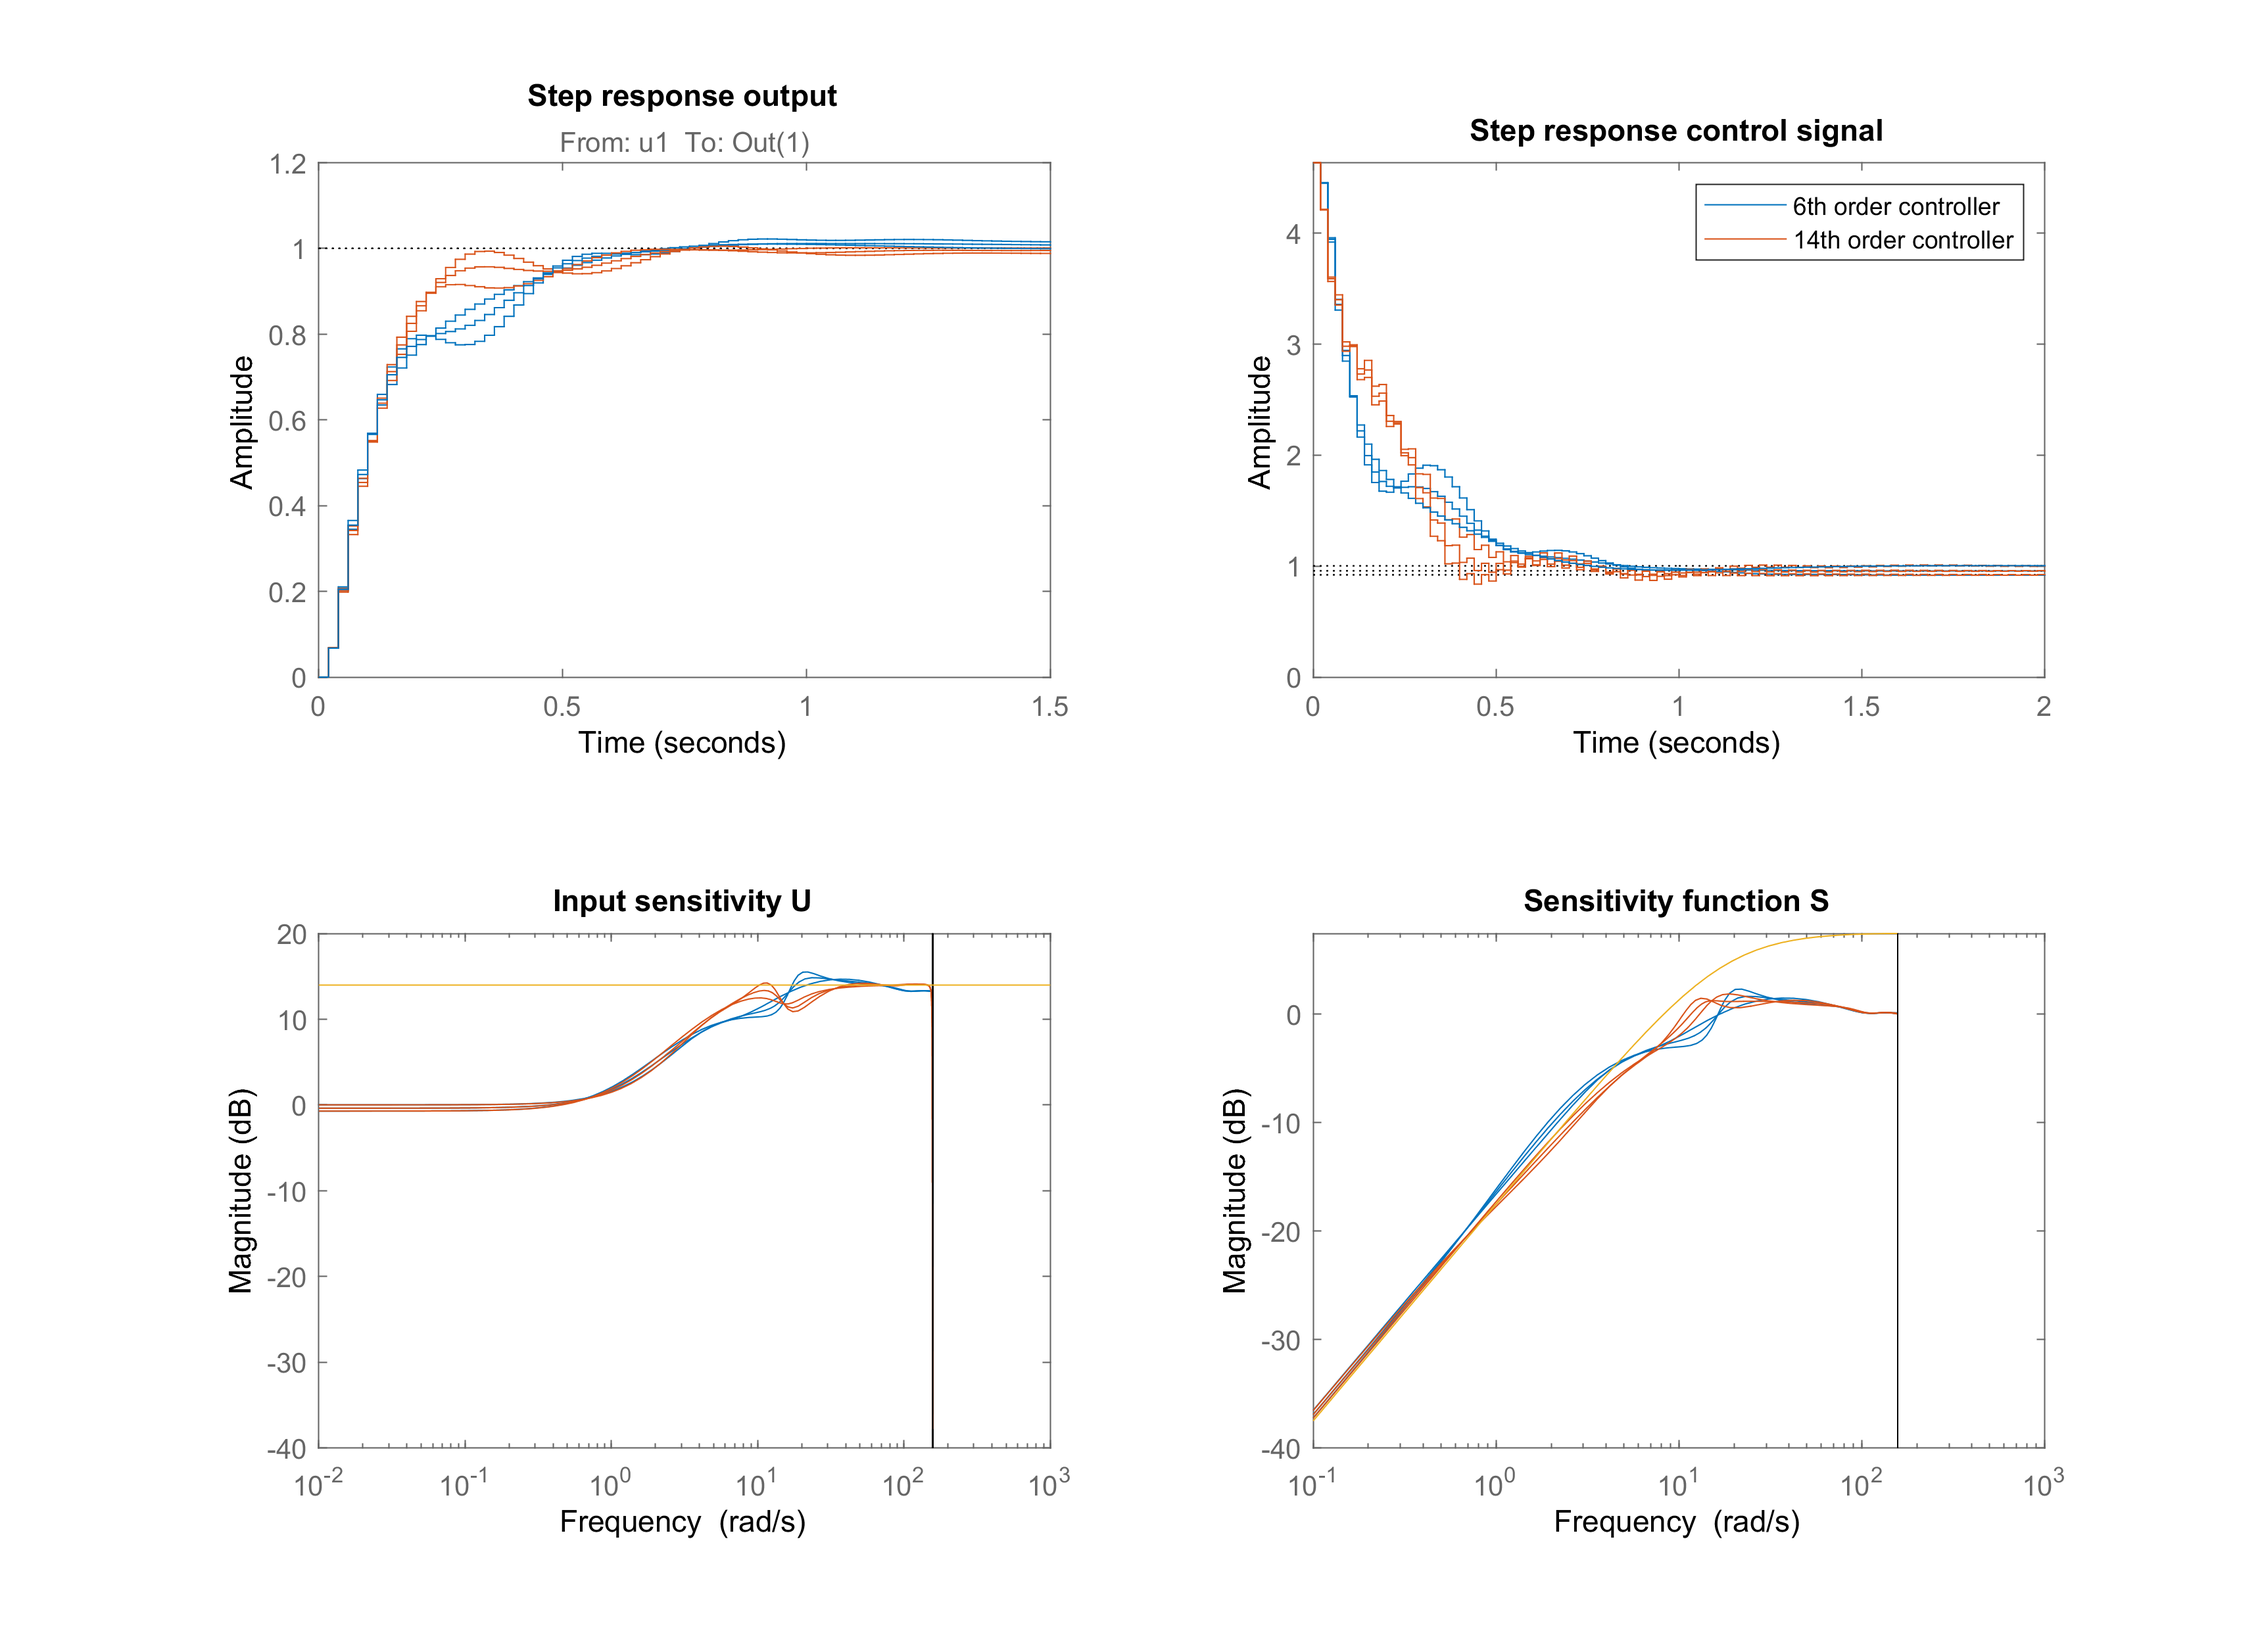
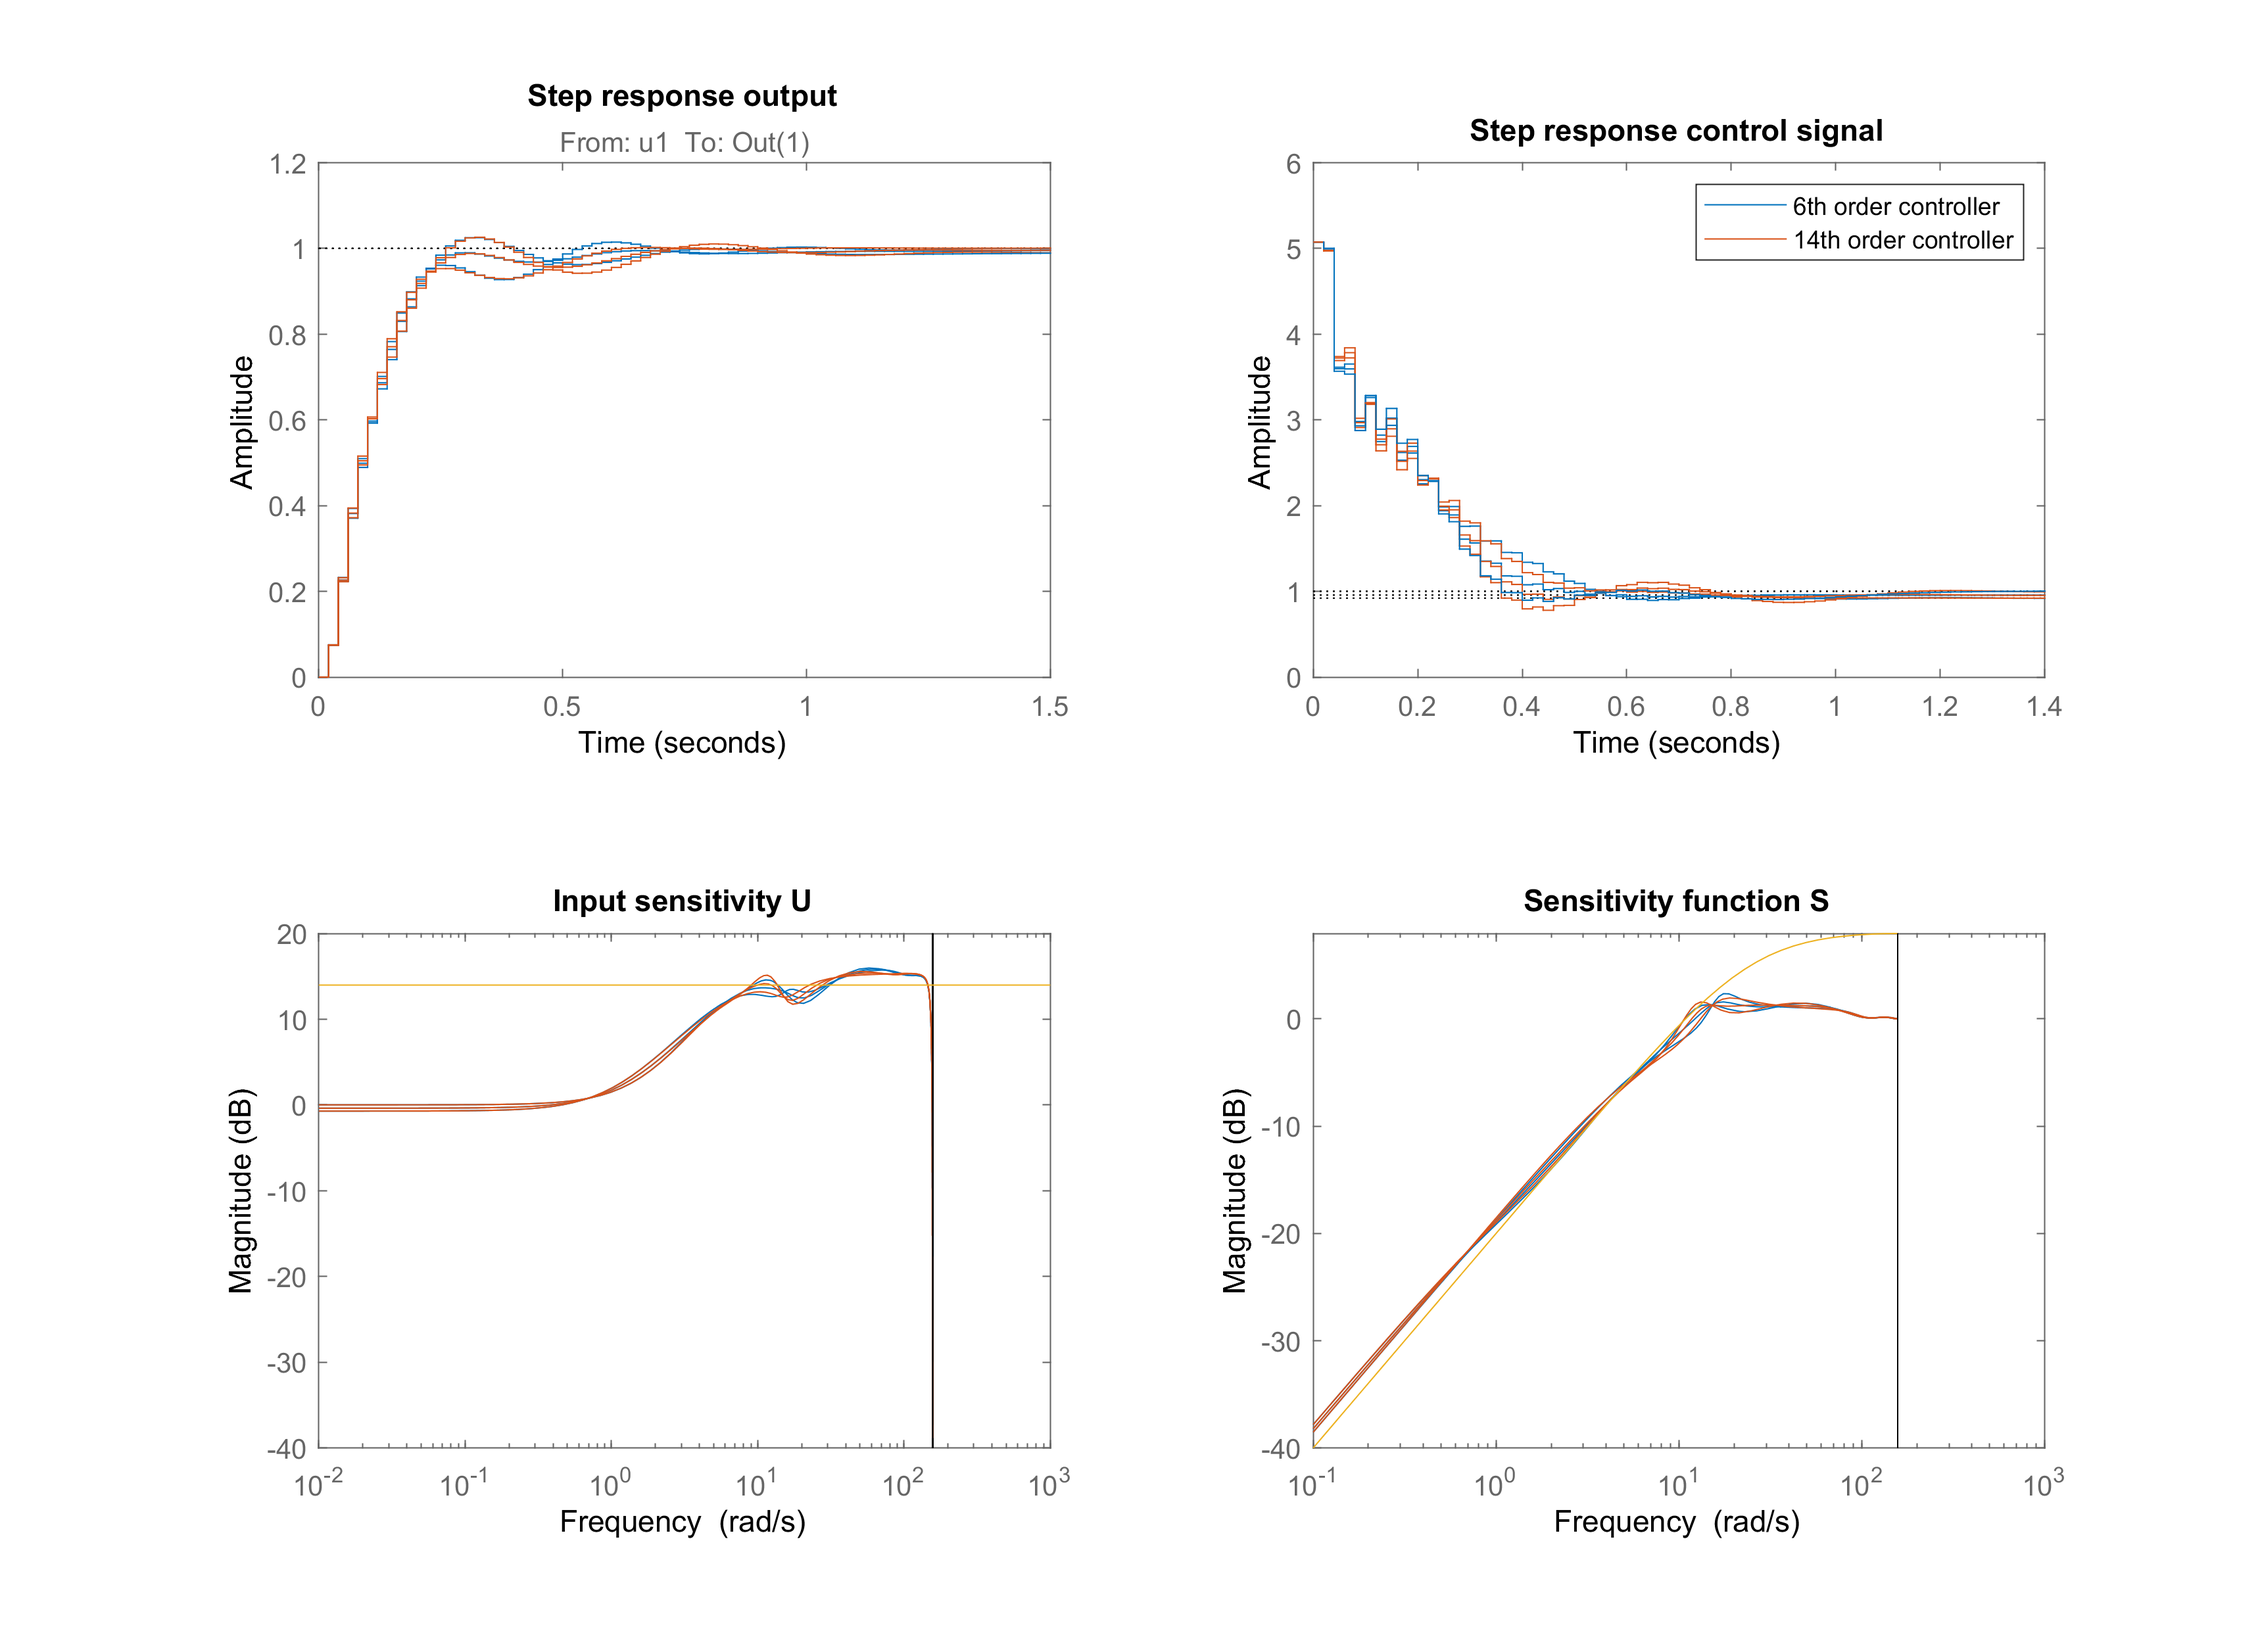
Done with CE2

diff --git a/CE2/CE2_2.m b/CE2/CE2_2.m
@@ -55,7 +55,7 @@ hsvd(K) %calculating the Hankel singular values
 set(gcf,'Renderer', 'painters', 'Position', [10 10 800 400]);
 print(gcf,'PoleAnalysis.png','-dpng','-r300');
 
-Kred = reduce(K,6); %reducing the controller to 6th order
+Kred = reduce(K,4); %reducing the controller to 6th order
 
 Tred = feedback(Kred*G,1);
 Ured = feedback(Kred,G);
@@ -99,4 +99,6 @@ modulusmargin = 1./infS %modulus margin
  T1 = feedback(Kred*G1,1);
 
  fb = bandwidth(Tred)
-
+ 
+ %%
+ save('CE2_2','Sred','Ured','Tred')
